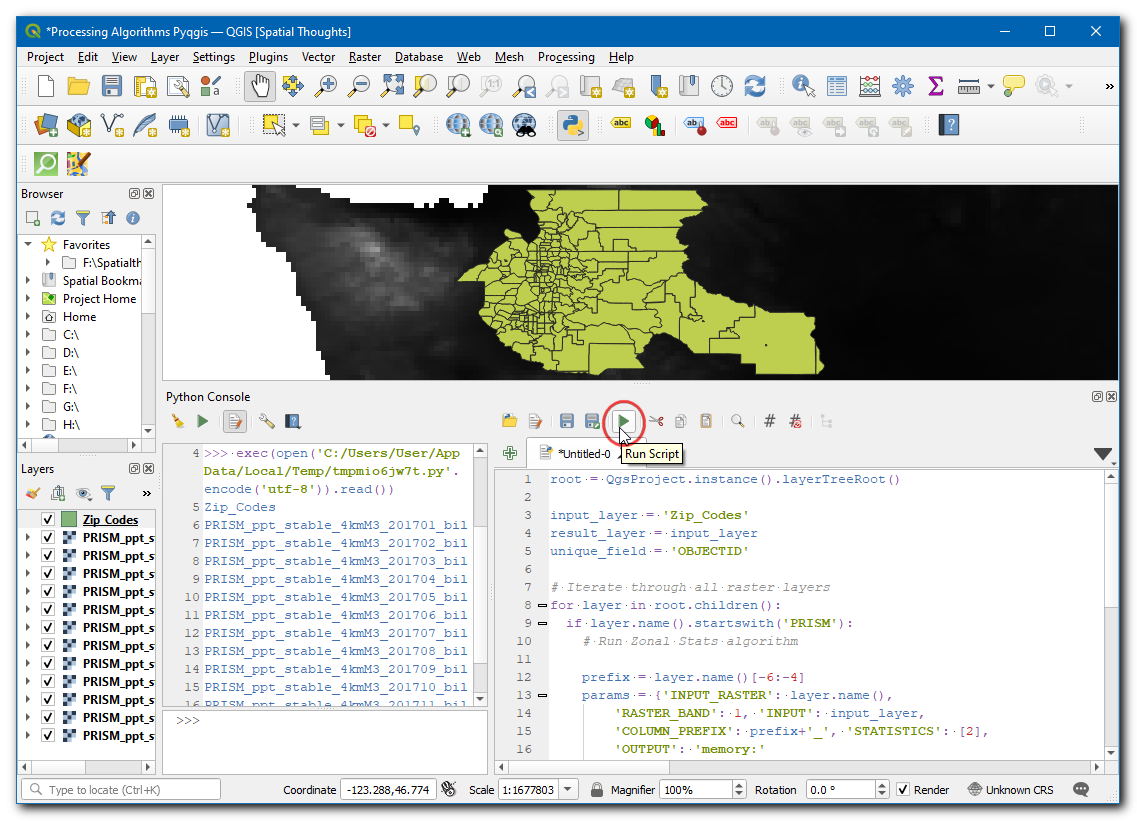
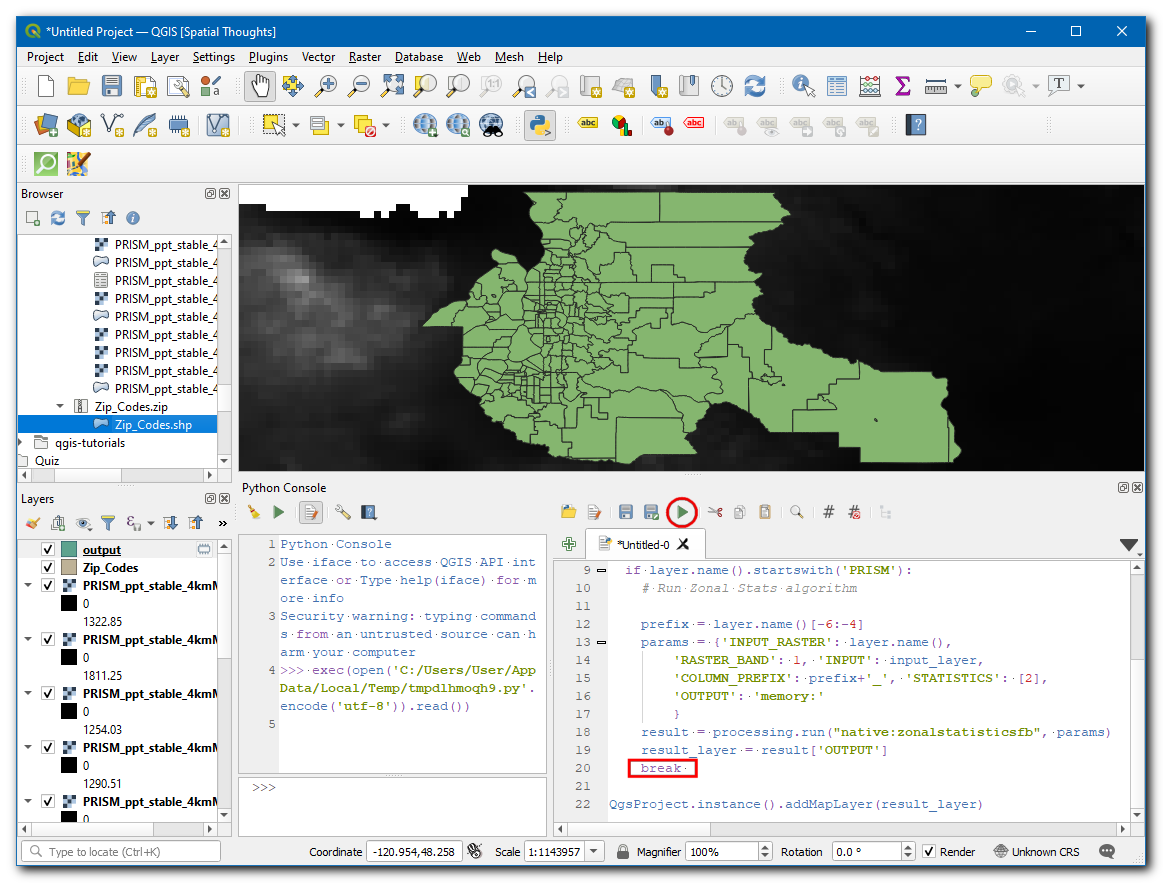
Updated processing algorithms pyqgis

diff --git a/source/docs/3/processing_algorithms_pyqgis.rst b/source/docs/3/processing_algorithms_pyqgis.rst
@@ -11,7 +11,9 @@ We will use 12 gridded raster layers representing precipitation for each month o
 Other skills you will learn
 ^^^^^^^^^^^^^^^^^^^^^^^^^^^
 
-- How to delete a column (i.e. field) from a vector layer.
+- Access all layer(Raster and vector) from Python console and print their names. 
+- Merge diffrent layer into single layer using Python script. 
+
 
 Get the data
 ------------
@@ -35,7 +37,7 @@ Data Source [PRISM]_ [CITYOFSEATTLE]_
 Procedure
 ---------
 
-1. Unzip the ``PRISM_ppt_stable_4kmM3_2017_all_bil.zip`` file. Locate the ``PRISM_ppt_stable_4kmM3_2017_all_bil`` folder in the QGIS Browser and expand it. The folder contains 12 individual layers for each month. Hold the :kbd:`Ctrl` key and select the ``.bil`` files for all 12 months. Once selected, drag them to the canvas.
+1. Locate the ``PRISM_ppt_stable_4kmM3_2017_all_bil.zip`` folder in the QGIS Browser and expand it. The folder contains 12 individual layers for each month. Hold the :kbd:`Ctrl` key and select the ``.bil`` files for all 12 months. Once selected, drag them to the canvas.
 
   .. image:: /static/3/processing_algorithms_pyqgis/images/1.png
      :align: center
@@ -49,14 +51,10 @@ Procedure
   .. image:: /static/3/processing_algorithms_pyqgis/images/2.png
      :align: center
 
-3. Next, unzip the ``Zip_Codes.zip`` file and extract the shapefile to a folder. Locate the ``Zip_Codes`` folder and expand it. Drag the ``Zip_Codes.shp`` file to the canvas.
+3. Next, locate the ``Zip_Codes.zip`` folder and expand it. Drag the ``Zip_Codes.shp`` file to the canvas.
 
   .. image:: /static/3/processing_algorithms_pyqgis/images/3.png
      :align: center
-
-.. note::
-
-  The unzip step is important because the Zonal Statistics algorithm works by adding a new field to the layer. If the layer is zipped, QGIS cannot update the layer.
      
 4. Right-click the ``Zip_Codes`` layer and select :guilabel:`Zoom to Layer`. You will see the zip code polygons for the city of seattle and neighboring areas. 
 
@@ -68,7 +66,7 @@ Procedure
   .. image:: /static/3/processing_algorithms_pyqgis/images/5.png
      :align: center
      
-6. The algorithm to sample a raster layer using vector polygons is known as ``Zonal statistics``. Search for the algorithm in the :guilabel:`Processing Toolbox`. Select the algorithm and hover your mouse over it. You will see a tooltip with the text *Algorithm ID: 'native:zonalstatistics'*. Note this id which will be needed  to call this algorithm via the Python API. Double-click the ``Zonal Statistics`` algorithm to launch it.
+6. The algorithm to sample a raster layer using vector polygons is known as ``Zonal statistics``. Search for the algorithm in the :guilabel:`Processing Toolbox`. Select the algorithm and hover your mouse over it. You will see a tooltip with the text *Algorithm ID: 'native:zonalstatisticsfb'*. Note this id which will be needed  to call this algorithm via the Python API. Double-click the ``Zonal Statistics`` algorithm to launch it.
 
   .. image:: /static/3/processing_algorithms_pyqgis/images/6.png
      :align: center
@@ -94,7 +92,7 @@ Procedure
   .. image:: /static/3/processing_algorithms_pyqgis/images/10.png
      :align: center
      
-11. Click on the :guilabel:`show editor` button. This will open the python editor were a bunch of python code can be written and executed with a single click of a button.
+11. Click on the :guilabel:`show editor` button. This will open the python editor where a bunch of python code can be written and executed with a single click of a button.
 
   .. image:: /static/3/processing_algorithms_pyqgis/images/11.png
      :align: center
@@ -110,60 +108,94 @@ Procedure
   .. image:: /static/3/processing_algorithms_pyqgis/images/12.png
      :align: center
 
-13. Now, lets calculate ``Mean`` across all months and create an single layer by adding 12 columns for each month (i.e) ``01_mean`` for January, ``02_mean`` for February and so on. This can be achieved by custom prefixing. So, for adding a custom prefix, we need to look at the layer name and extract a substring representing the month number. Enter the following code to iterate over all raster layers, extract the custom prefix and run the ``native:zonalstatisticsfb`` algorithm using it.
+13. Now, let's calculate the ``Mean`` for one month and create an output layer. In the below code :guilabel:`break` is used to exit the loop after the first execution, by this we can calculate the mean for January month. 
 
   .. code-block:: python
 
   
-    root = QgsProject.instance().layerTreeRoot()
+      root = QgsProject.instance().layerTreeRoot()
 
-    input_layer = 'Zip_Codes'
-    result_layer = input_layer
-    unique_field = 'OBJECTID'
+      input_layer = 'Zip_Codes'
+      result_layer = input_layer
+      unique_field = 'OBJECTID'
 
-    # Iterate through all raster layers
-    for layer in root.children():
-      if layer.name().startswith('PRISM'):
-        # Run Zonal Stats algorithm
-      
-        prefix = layer.name()[-6:-4]
-        params = {'INPUT_RASTER': layer.name(),
-            'RASTER_BAND': 1, 'INPUT': input_layer,
-            'COLUMN_PREFIX': prefix+'_', 'STATISTICS': [2],
-            'OUTPUT': 'memory:'
-            }
-        result = processing.run("native:zonalstatisticsfb", params)
-        zonalstats = result['OUTPUT']
+      # Iterate through all raster layers
+      for layer in root.children():
+        if layer.name().startswith('PRISM'):
+          # Run Zonal Stats algorithm
         
-        # Run Join Attributes by Table to join the newly created
-        # column with original layer
-        params = { 'INPUT': result_layer, 'FIELD':unique_field,
-            'INPUT_2': zonalstats, 'FIELD_2': unique_field, 
-            'FIELDS_TO_COPY': prefix + '_' + 'mean',
-            'OUTPUT': 'memory:'}
-            
-        result = processing.run("native:joinattributestable", params)
-    
-    # At the end of each iteration, update the result layer to the
-    # newly processed layer, so we keep adding new fields to the same layer
-    result_layer = result['OUTPUT']
-    
-    QgsProject.instance().addMapLayer(result_layer)
+          prefix = layer.name()[-6:-4]
+          params = {'INPUT_RASTER': layer.name(),
+              'RASTER_BAND': 1, 'INPUT': input_layer,
+              'COLUMN_PREFIX': prefix+'_', 'STATISTICS': [2],
+              'OUTPUT': 'memory:'
+              }
+          result = processing.run("native:zonalstatisticsfb", params)
+          
+          result_layer = result['OUTPUT']
+          # Breaking out of loop to demonstrate the zonalstatistics algorithm. 
+          break 
+          
+      QgsProject.instance().addMapLayer(result_layer)
 
   .. image:: /static/3/processing_algorithms_pyqgis/images/13.png
      :align: center
 
-  .. note::
-
-    The ``native:zonalstatisticsfb`` will produce new layers for each month by aggregating each month **mean** as new  layer. But to get an single layer by combaining it, we need to join all the new layers by using ``native:joinattributestable``. 
-     
-14. Once the processing finishes, a new layer ``output`` will be added to canvas, right-click on the layer and select :guilabel:`Open Attribute Table`.
+14. A new layer ``output`` will be added to the canvas, right-click on the layer and select :guilabel:`Open Attribute Table`. :guilabel:`01_mean` represents one month mean, likewise the above algorithm will produce 12 new layers if executed without the break.
 
   .. image:: /static/3/processing_algorithms_pyqgis/images/14.png
      :align: center
-     
-15. You will see 12 new columns added to the table with custom prefixes and mean precipitation values extracted from the raster layers.
+
+15. Now lets add code to merge all the months mean, and create an single output layer from it. Enter the following code to iterate over all raster layers, extract the custom prefix and run the :guilabel:`native:joinattributestable` algorithm to create an single layer containing all months mean. 
+
+  .. code-block:: python
+
+  
+        root = QgsProject.instance().layerTreeRoot()
+
+        input_layer = 'Zip_Codes'
+        result_layer = input_layer
+        unique_field = 'OBJECTID'
+
+        # Iterate through all raster layers
+        for layer in root.children():
+          if layer.name().startswith('PRISM'):
+            # Run Zonal Stats algorithm
+          
+            prefix = layer.name()[-6:-4]
+            params = {'INPUT_RASTER': layer.name(),
+                'RASTER_BAND': 1, 'INPUT': input_layer,
+                'COLUMN_PREFIX': prefix+'_', 'STATISTICS': [2],
+                'OUTPUT': 'memory:'
+                }
+            result = processing.run("native:zonalstatisticsfb", params)
+            zonalstats = result['OUTPUT']
+            
+            # Run Join Attributes by Table to join the newly created
+            # column with original layer
+            params = { 'INPUT': result_layer, 'FIELD':unique_field,
+                'INPUT_2': zonalstats, 'FIELD_2': unique_field, 
+                'FIELDS_TO_COPY': prefix + '_' + 'mean',
+                'OUTPUT': 'memory:'}
+                
+            result = processing.run("native:joinattributestable", params)
+            
+            # At the end of each iteration, update the result layer to the
+            # newly processed layer, so we keep adding new fields to the same layer
+            result_layer = result['OUTPUT']
+            
+        QgsProject.instance().addMapLayer(result_layer)
 
   .. image:: /static/3/processing_algorithms_pyqgis/images/15.png
+     :align: center
+     
+16. Once the processing finishes, a new layer ``output`` will be added to canvas, right-click on the layer and select :guilabel:`Open Attribute Table`.
+
+  .. image:: /static/3/processing_algorithms_pyqgis/images/16.png
+     :align: center
+     
+17. You will see 12 new columns added to the table with custom prefixes and mean precipitation values extracted from the raster layers.
+
+  .. image:: /static/3/processing_algorithms_pyqgis/images/17.png
      :align: center
      
